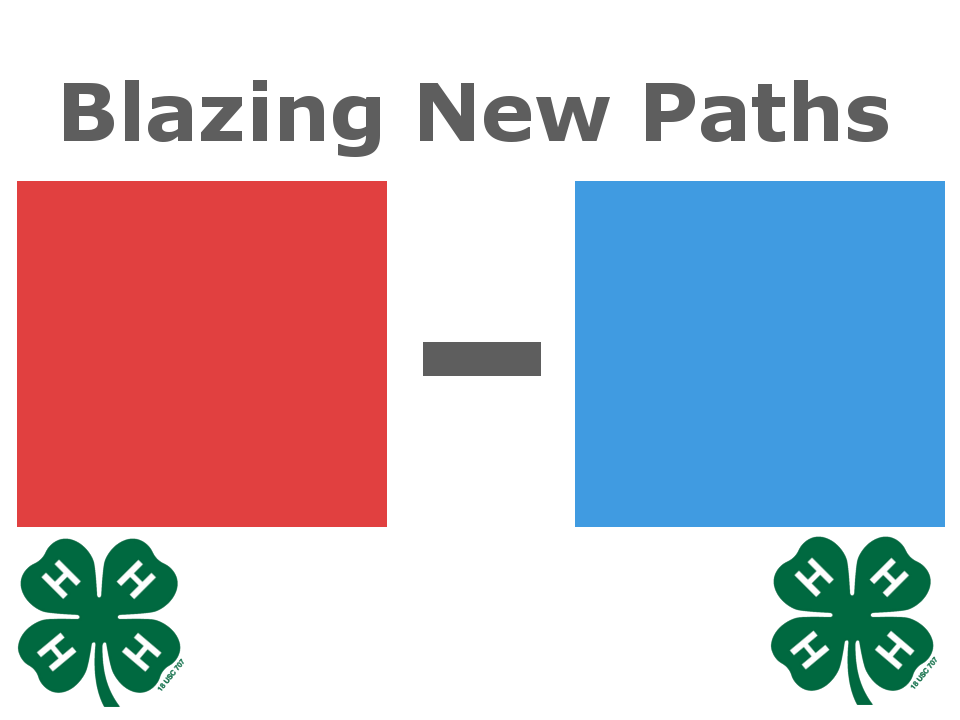
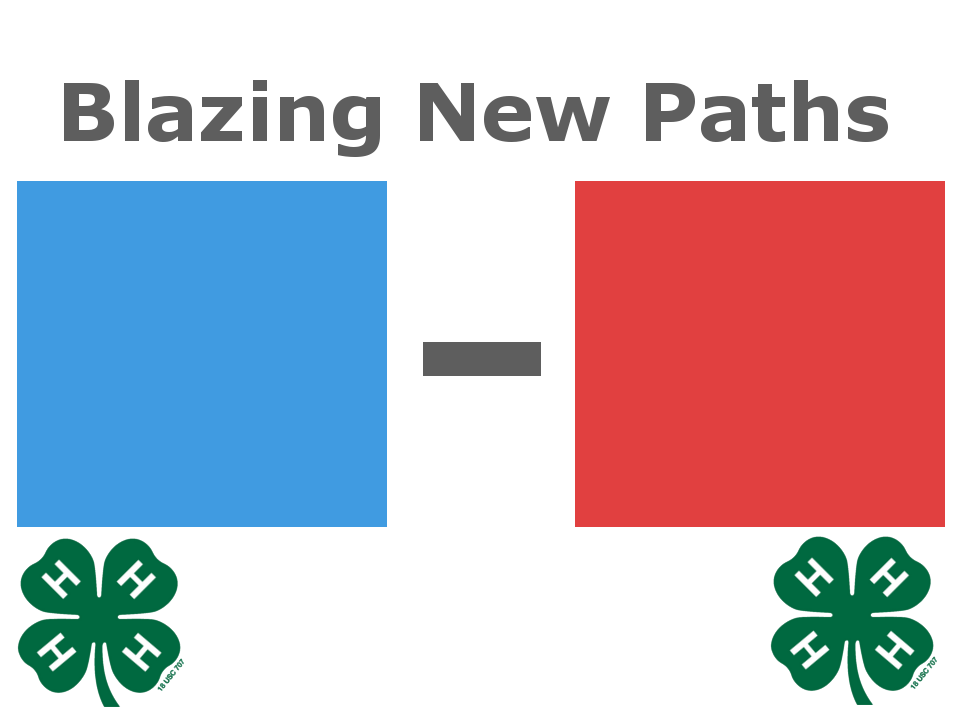
Final Update for 2019 Fair

diff --git a/server.js b/server.js
@@ -4,7 +4,7 @@ const logger = require('morgan');
 const cv = require('opencv4nodejs');
 const path = require('path');
 
-const devicePort = 0;
+const devicePort = 1;
 const camera = new cv.VideoCapture(devicePort);
 
 const redVideo = new cv.VideoCapture('./media/red.mp4');
@@ -30,7 +30,7 @@ app.get('/currentScores', (req, res) => {
 })
 
 app.get('/updateScores', (req, res) => {
-  let newScore = req.query.score;
+  let newScore = parseInt(req.query.score);
   let team = req.query.color;
   if (!scores.hasOwnProperty(team)){
     res.status(400).send("That color doesn't exist!");
@@ -41,14 +41,6 @@ app.get('/updateScores', (req, res) => {
 
 app.get('/publish', (req, res) => {
   displayMode = 1;
-  setTimeout(() => {
-    displayMode = 0;
-    redVideo.reset();
-    blueVideo.reset();
-    tieVideo.reset();
-    scores.blue = 0;
-    scores.red = 0;
-  }, 15000);
   res.status(200).json({"status":"Success"});
 })
 
@@ -70,7 +62,6 @@ let updateDisplay = () => {
 
   if(displayMode == 1){
     wait = 5;
-    let done = false;
     if(scores.red > scores.blue){
       frame = redVideo.read();
     }else if (scores.blue > scores.red){
@@ -79,16 +70,24 @@ let updateDisplay = () => {
       frame = tieVideo.read();
     }
     if(frame.empty){
+      redVideo.reset();
+      blueVideo.reset();
+      tieVideo.reset();
       displayMode = 2;
+      setTimeout(() => {
+        displayMode = 0;
+        scores.blue = 0;
+        scores.red = 0;
+      }, 7000);
     }
   }
 
   if (displayMode == 2) {
     const mat = cv.imread('./media/score-bg2.png');
     mat.putText(
-      ""+scores.red,
+      ""+scores.blue,
       //300 for 1 digit
-      new cv.Point(190-(45*numDigits(scores.red)), 410),
+      new cv.Point(190-(45*numDigits(scores.blue)), 410),
       cv.FONT_HERSHEY_SIMPLEX,
       5, //font size
       new cv.Vec(255,255,255),
@@ -97,8 +96,8 @@ let updateDisplay = () => {
       0
     )
     mat.putText(
-      ""+scores.blue,
-      new cv.Point(760-(45*numDigits(scores.blue)),410),
+      ""+scores.red,
+      new cv.Point(760-(45*numDigits(scores.red)),410),
       cv.FONT_HERSHEY_SIMPLEX,
       5, //font size
       new cv.Vec(255,255,255),
@@ -117,8 +116,8 @@ let updateDisplay = () => {
 
 
   cv.imshow('view', frame);
-  cv.waitKey(wait);
-  setTimeout(updateDisplay, wait)
+  cv.waitKey(1);
+  setTimeout(updateDisplay, 1000/30)
 };
 
 updateDisplay();

diff --git a/scoring-build/main-es2015.js b/scoring-build/main-es2015.js
@@ -152,11 +152,11 @@ let AppComponent = class AppComponent {
     }
     autoTotal() {
         return this.cityTotal(true) + this.score.auto.turningJunc * 4 + this.score.auto.contJunc * 3 +
-            this.score.auto.mountain * 2;
+            this.score.auto.mountain * 3;
     }
     teleTotal() {
         return this.cityTotal(false) + this.score.tele.turningJunc * 4 + this.score.tele.contJunc * 3 +
-            this.score.tele.forest * 3 + this.score.tele.mountain * 2;
+            this.score.tele.forest * 3 + this.score.tele.mountain * 3;
     }
     totalScore() {
         return this.autoTotal() + this.teleTotal() - this.score.tele.touch * 2;

diff --git a/scoring-interface2019/src/app/app.component.ts b/scoring-interface2019/src/app/app.component.ts
@@ -78,12 +78,12 @@ export class AppComponent {
 
   autoTotal(){
     return this.cityTotal(true) + this.score.auto.turningJunc*4 + this.score.auto.contJunc*3 +
-              this.score.auto.mountain*2;
+              this.score.auto.mountain*3;
   }
 
   teleTotal(){
     return this.cityTotal(false) + this.score.tele.turningJunc*4 + this.score.tele.contJunc*3 +
-              this.score.tele.forest*3 + this.score.tele.mountain*2;
+              this.score.tele.forest*3 + this.score.tele.mountain*3;
   }
 
   totalScore(){
